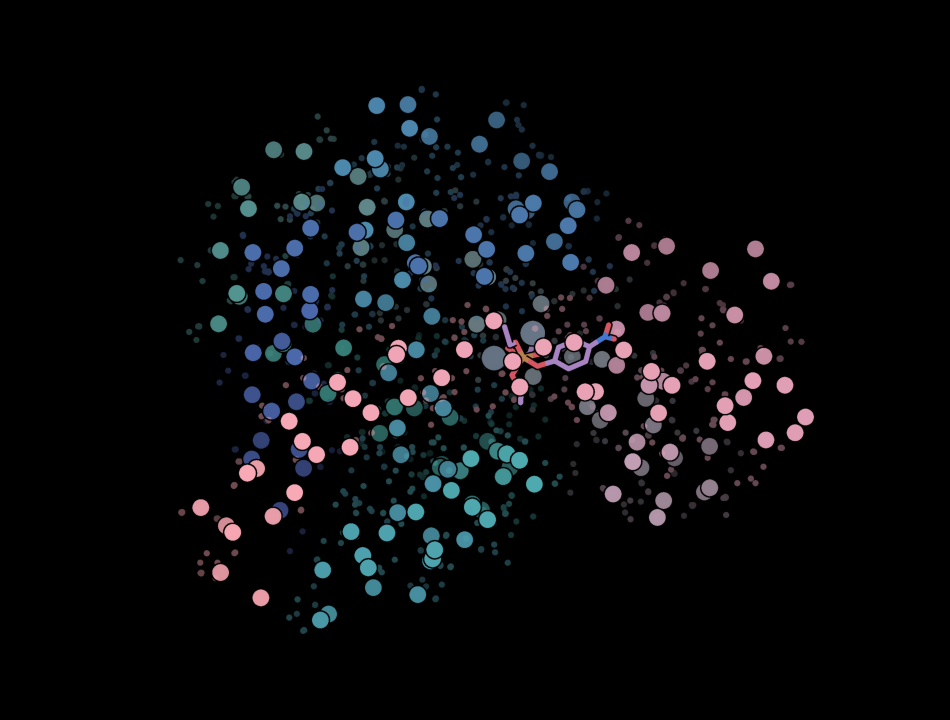
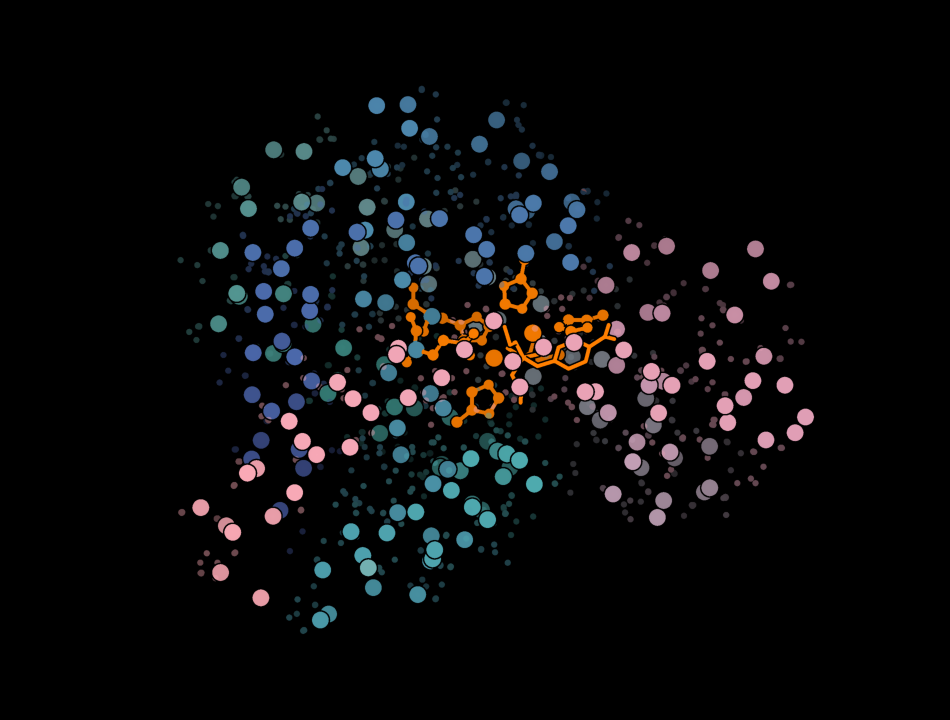
rfd3_movie: orange fixed-motif highlight (fixed_color) + design-JSON cross-check (fixed_json/auto-derive); bundle example JSON

Changed region(s): [[0.4274, 0.3667, 0.6716, 0.5806], [0.4579, 0.5806, 0.4884, 0.6111], [0.3663, 0.7639, 0.3968, 0.7944]]

diff --git a/README.md b/README.md
@@ -44,7 +44,7 @@ The bundled `show_termini.py` sits next to `.pymolrc` and loads automatically.
 | `color_bb_rfdiffusion3 [sel]` | RFdiffusion3 gradient (pink → purple → teal → dark blue), N→C |
 | `gaussian_mode [sel]` · `gaussian_off [sel]` | GaussView / QM look (glossy ball-and-stick, bond orders, perspective), and restore |
 | `gaussian_spin` `on\|off` | gentle continuous spin (GUI) |
-| `rfd3_movie <traj.cif.gz>` | RFdiffusion3 diffusion movie from one trajectory file: diffusing protein as CA spheres + sidechain V-cloud colored by the RFd3 gradient; fixed motif/cofactor/Zn auto-detected and shown in your normal style; then `mplay` |
+| `rfd3_movie <traj.cif.gz>` | RFdiffusion3 diffusion movie from one trajectory: diffusing protein as CA spheres + V-cloud in the RFd3 gradient; fixed motif/cofactor/Zn auto-detected, held static, highlighted (orange by default, `fixed_color=`); cross-checks the design JSON (`fixed_json=` or auto-derived) if present; then `mplay` |
 
 The `color_bb_*` commands default to `chain A` and recolor carbons only (non-carbon atoms
 left alone); pass `all_atom=1` to recolor every atom, or `backbone_only=1` to keep